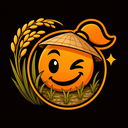
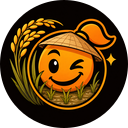
Audit 2026-10-11: workflow_stage localize[1.0.0], regenerate stale ModIcon.png

diff --git a/STATUS.md b/STATUS.md
@@ -9,8 +9,7 @@ visibility:   public
 detached:     yes
 remote:       https://github.com/vbardales/Rimworld-Japanese-Homestead.git
 local_path:   C:\Users\nelim\Documents\rimworld\JapaneseHomestead
-stage:        showcase
-workflow_stage: options
+workflow_stage: localize[1.0.0]
 settings_audit: not_applicable
 licence:      silent
 licence_at:   WA source and Workshop recheck; Tatara extracted to RolledUpSleeves
@@ -40,7 +39,7 @@ remaining:
     Glass+Lights aquarium cost scenario has never run. `tested` needs all three passes complete and green, no @wip,
     every @requires played, no manual test.
 session:      maj:        2026-09-12, releve automatique
-updated:      2026-10-02, audit: stage back to showcase / options (French gender defect), Pickle evidence trimmed
+updated:      2026-10-11, audit: workflow_stage localize[1.0.0] (French gender defect), ModIcon.png regenerated from its source
 ---
 
 # Nelim's Japanese Homestead (unofficial) — status
@@ -411,3 +410,26 @@ Previous `stage: done` -> retained `stage: showcase`, `workflow_stage: options` 
 - Not touched: the shared `pickle-reports-archive/` (full copies for every mod; no folder there was identified as
   this mod's own run).
 - Docs read and their value: docs/PROTOCOLS-READ.md.
+
+## Audit — 2026-10-11
+
+Revision bfae7aa. Working tree not clean before this audit: `Art/` holds other uncommitted work (Preview re-render,
+`Art/Gallery/`, `Art/echo.png`, `Art/Preview.config.json`, deleted `Preview-*.png`, `Mod/About/Preview.png`), left untouched.
+`stage` retired (was `showcase`); `options` reassessed against the 2026-10-11 chain (AUDIT.md section 16). This section
+replaces the 2026-10-02 stage decision; that section's evidence notes stand.
+
+- **makeSources -> code:** `Mod/About/ModIcon.png` (2026-09-03, RGB) was older than `Art/ModIcon-source.png` (2026-09-29, 128x128
+  RGBA): stale derivative (2.b). Regenerated from the source by the session (Lanczos, 128x128, 25,512 bytes, within 20-30 KB).
+  `Art/ModIcon.ico` (2026-10-03) postdates the source. `Art/Preview-source.png` present. 2.e palette checks not rerun (unverified).
+- **code -> declareDependencies:** build not rerun this audit (unverified). No `feature` left in `remaining`; `[Unreleased]` open.
+- **declareDependencies (4.g):** `Mod/About/About.xml` at bfae7aa, 2026-10-11: no `modDependencies`; `loadAfter` Core, Royalty,
+  Ideology, Biotech, Anomaly, Odyssey, `NanoCE.GlassLights` (optional, patch gated by display name); `supportedVersions` 1.6 only.
+  Glass+Lights identity and costs verified 2026-09-13, unchanged.
+- **auditSettings:** `not_applicable` stands (no `Verse.Mod`, no settings class, no MainButtonDef; inventory 2026-09-13).
+- **localize -> writeTests: fails (6.d).** `Mod/Languages/French/DefInjected/HediffDef/WA.xml` still has "m'a encouragé" (5 stage
+  labels) and "Intimidé" with no `{PAWN_gender ? ... : ... : ...}` switch. Retained state `localize[1.0.0]`; `translation_fr` stays
+  `partial`. Return path: add the switches, regenerate `FRENCH_REVIEW.md`, audit again; Virginie's reading precedes the `writeTests` exit (6.g).
+- **writeTests / playTests:** not rejudged below the failing gate. `Test-Mod.ps1` and `Check-DefInjected.ps1` not rerun (unverified).
+  Pickle red on 7fd0d8b (see `remaining`); `tested_on` stays empty.
+- `protocols_read_sha` not written: `Mark-ProtocolsRead.ps1` refuses (`WORKSHOP_COMMENTS.md` uncommitted in the protocols repo) and
+  this session read AUDIT.md and WELCOME.md only this pass (the other protocols: unread). Linter WARN stays until a full read.
